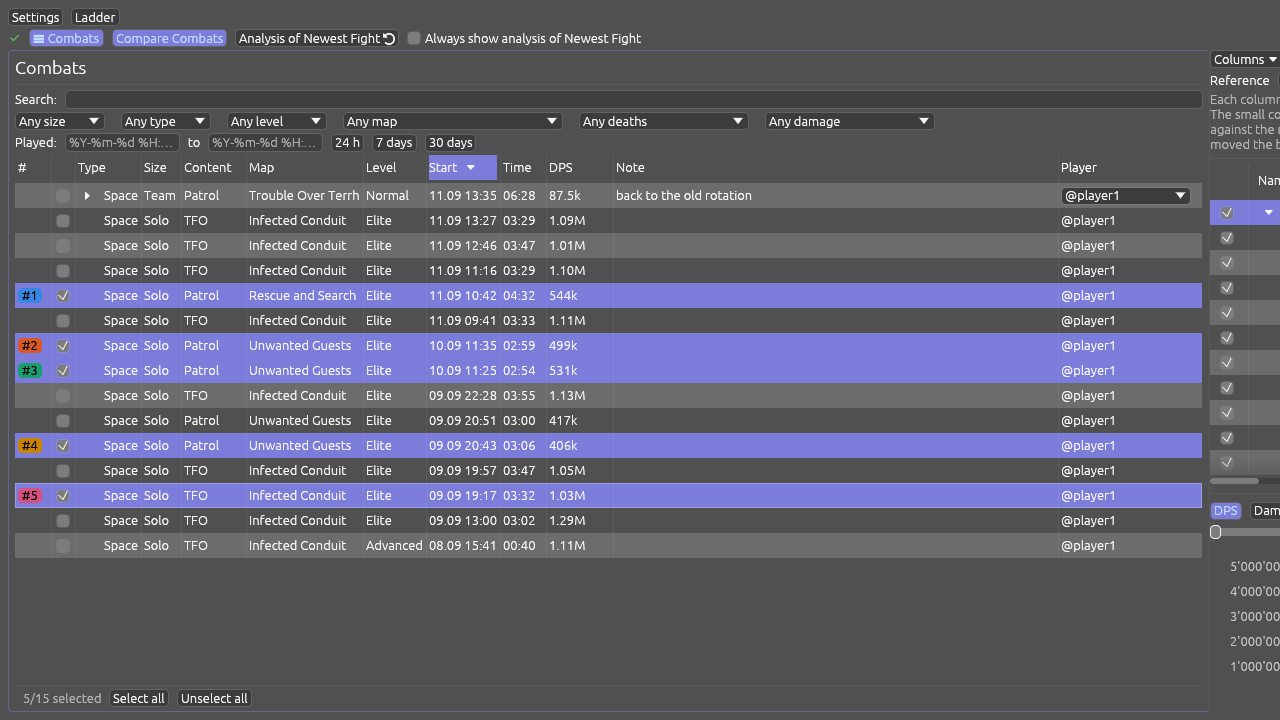
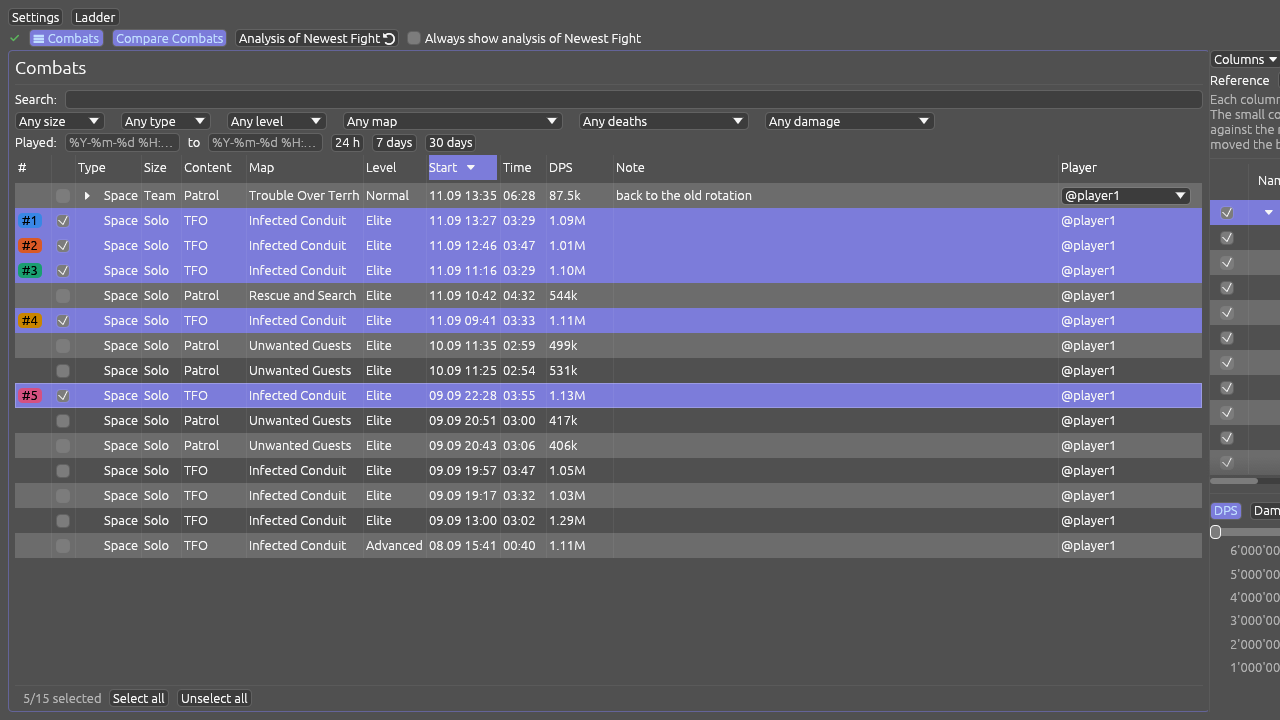
Make the text agree with the pictures it stands next to
The retaken pictures are of a different fight with different figures, and four
passages went on describing the old ones. A reader checks the guide against
what is on their screen, so a caption that disagrees with the picture under it
is worse than no caption.

- the worked example for the spread filter claimed five runs of one patrol.
  The picture showed three maps and a TFO, because the script ticks fixed rows
  and the demo log was recut. Fixed at the source: it now picks five runs of
  the same map at the same level, which is the only set where a spread filter
  says anything, and the row counts in the text and the caption are that
  table's — 14 of 71 at a 3% spread.
- the quoted heading over the tabs was of a fight no longer in the demo log.
- "a team run from the ladder holds five players" — the run in the picture
  holds three. It holds whoever flew it.
- the README sent the reader to a combats list "at the top"; it is a panel down
  the left, opened with a button or the Tab key, and the picture beside the
  sentence shows no list at all.

The earlier worked example also put numbers on a build comparison the demo log
cannot show. Those are gone rather than restated: every figure quoted here is
one the reader can find in the picture beside it.

diff --git a/MANUAL.md b/MANUAL.md
@@ -226,10 +226,10 @@ with that combat:
 ![The box above the tabs: which fight is open, and what you called it](images/combat-note.png)
 
 What you type is added to the line above, after a dash and in the same lettering
-as the name — so the heading over all six tabs reads **[Solo] [Space] [TFO]
-Infected: The Conduit [Elite] | 2026-09-02 14:33:32 - 14:41:10 — Full BA**. It
-follows your typing, so you can see how the run will read while you are still
-naming it.
+as the name — so the heading over all six tabs reads **[Team] [Space] [Patrol]
+Trouble Over Terrh [Normal] | 2026-09-11 13:35:23 - 13:42:18 — back to the old
+rotation**. It follows your typing, so you can see how the run will read while
+you are still naming it.
 
 It shows up in the list's **Note** column as well, so a whole evening reads back
 by what you were flying rather than by the clock.
@@ -715,12 +715,13 @@ unevenly" are different findings.
 The rows stay in their usual order, so a row you know from the full table is
 where you left it; only the ones nobody differs over go.
 
-Worked example, five runs of the same patrol: at a small setting the table drops
-from 25 rows to 9. Turned up, two rows are left — the antiproton beams one build
-flew and the phaser group the other leaned on. That is the difference between a
-rainbow build and a single-flavour one, without reading a single number.
+Worked example, five runs of the same TFO: the full table is 71 rows, and most
+of them are things every run used in much the same measure — worth seeing once,
+not worth reading five times. Asking for a 3% spread leaves 14. Turn it higher
+and the list keeps shrinking towards the few the runs really disagree about,
+which is where a build change or a bad pull actually shows.
 
-![Another five runs of one patrol, at a 3% spread: 19 of the 28 rows are left, and the rows missing from some of the runs say so](images/compare-differences.png)
+![Five runs of one TFO, at a 3% spread: 14 of the 71 rows are left, and the rows missing from some of the runs say so](images/compare-differences.png)
 
 The Total above follows both of them: it counts the rows that are ticked **and**
 on screen. Narrow the table to one damage type and the Total is that type's;
@@ -1004,8 +1005,8 @@ something else.
 ![A ladder run beside your own](images/ladder-compare.png)
 
 The two runs are by different people, so use the **Player** column in the list to
-say whose figures each column reads. A team run from the ladder holds five
-players; yours opens on you, theirs on whoever led it.
+say whose figures each column reads. A team run from the ladder holds everyone
+who flew it; yours opens on you, theirs on whoever led it.
 
 ---
 

diff --git a/README.md b/README.md
@@ -37,7 +37,8 @@ across](#bringing-your-old-settings-across).
    `<your STO installation>\Star Trek Online\Live\logs\GameClient\`.
 5. Click **Ok** at the bottom of the settings window, then the refresh button.
 
-Your combats appear in the list at the top. Pick one and the tabs below fill in.
+Press **☰ Combats** in the top row — or the **Tab** key — and a panel opens down
+the left with every fight in your log. Double-click one and the tabs fill in.
 
 ![The Summary tab](images/summary-tab.png)
 
